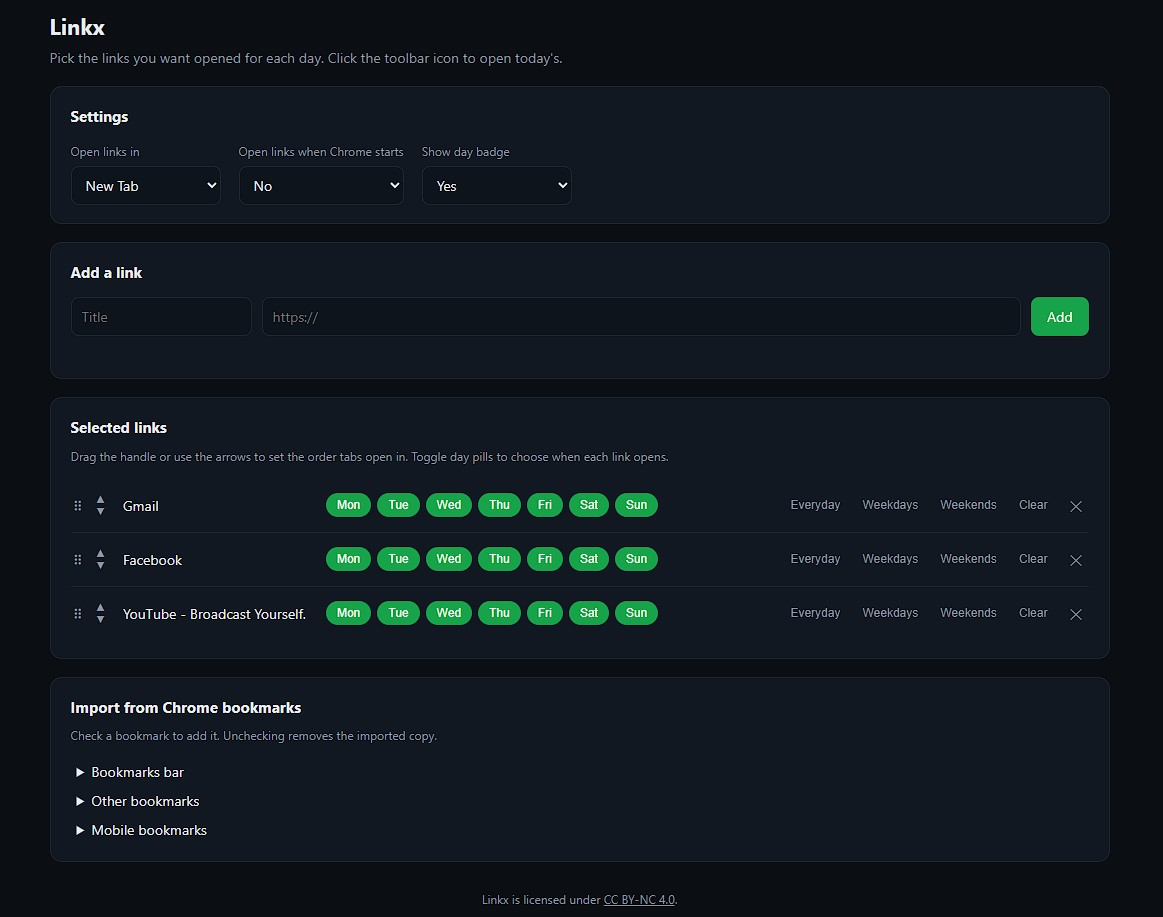
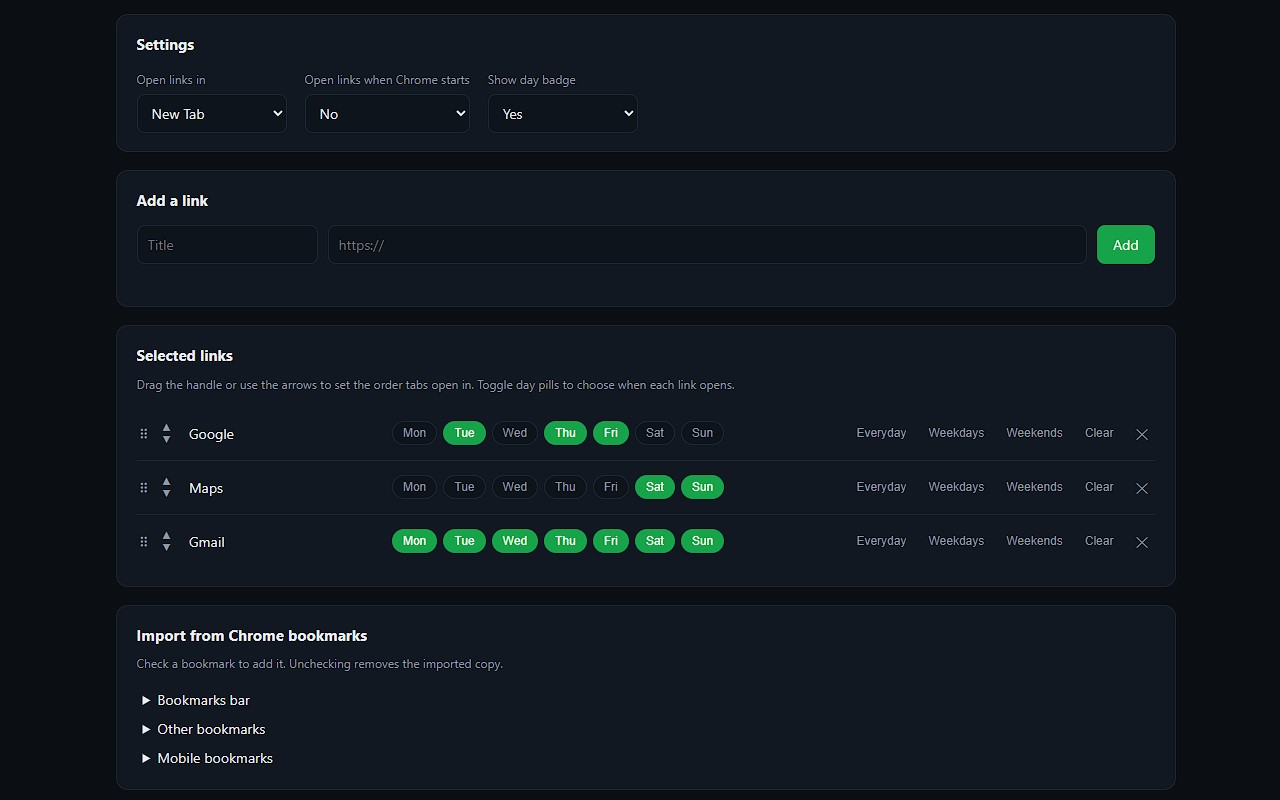
docs: update publishing guide and store screenshots

diff --git a/docs/PUBLISHING.md b/docs/PUBLISHING.md
@@ -24,7 +24,7 @@ powershell -ExecutionPolicy Bypass -File tools\pack.ps1
 
 This reads the version from `manifest.json` and writes `linkx-<version>.zip` (e.g. `linkx-1.0.3.zip`) containing exactly the shipping files, with `manifest.json`, `lib/`, and `icons/` at the root.
 
-> **Why a script and not `Compress-Archive`?** Windows PowerShell 5.1's `Compress-Archive` (and `ZipFile.CreateFromDirectory`) write ZIP entry names with **backslashes** (`lib\logic.js`), but the ZIP spec requires forward slashes. Chrome would then treat the file as literally named `lib\logic.js` at the root, breaking the `import './lib/storage.js'` calls after install. `tools/pack.ps1` builds entries with explicit forward slashes to avoid this.
+> **Why a script and not** `Compress-Archive`**?** Windows PowerShell 5.1's `Compress-Archive` (and `ZipFile.CreateFromDirectory`) write ZIP entry names with **backslashes** (`lib\logic.js`), but the ZIP spec requires forward slashes. Chrome would then treat the file as literally named `lib\logic.js` at the root, breaking the `import './lib/storage.js'` calls after install. `tools/pack.ps1` builds entries with explicit forward slashes to avoid this.
 
 > Every store update needs a **higher version** than the last published one. We already bump `version` in `manifest.json` + `package.json` on each change, so just re-run the script.
 
@@ -52,6 +52,7 @@ $z.Entries.FullName; $z.Dispose()
 **Name:** `Linkx`
 
 **Summary** (≤ 132 characters):
+
 ```
 Open the bookmarks you've chosen for today's weekday with a single click.
 ```
@@ -61,6 +62,7 @@ Open the bookmarks you've chosen for today's weekday with a single click.
 **Language:** English (or your preference)
 
 **Description:**
+
 ```
 Linkx opens the links you care about for the current day of the week — in one click.
 
@@ -81,6 +83,7 @@ Linkx is free and open source, licensed under CC BY-NC 4.0.
 ```
 
 **Graphic assets** (prepare these — **[you]**):
+
 - **Store icon:** 128×128 PNG. Linkx already ships `icons/icon128.png`; you can reuse it.
 - **Screenshots:** at least **1** (up to 5). **1280×800** or 640×400 PNG/JPEG. Load the extension, open its **Options** page with a few links configured and day pills toggled, and capture it. A second shot of the toolbar icon opening tabs is a nice-to-have.
 - **Small promo tile** (optional): 440×280 PNG.
@@ -90,28 +93,31 @@ Linkx is free and open source, licensed under CC BY-NC 4.0.
 ## 5. Privacy practices tab
 
 **Single purpose** (paste):
+
 ```
 Linkx opens the bookmarks the user has chosen for the current weekday when they click the toolbar icon.
 ```
 
 **Permission justifications** (one per requested permission):
 
-| Permission | Justification |
-|---|---|
+| Permission  | Justification                                                                                                                                                                                                       |
+| ----------- | ------------------------------------------------------------------------------------------------------------------------------------------------------------------------------------------------------------------- |
 | `bookmarks` | Read the user's existing Chrome bookmarks to display them on the options page so the user can select which ones to add as daily links. Bookmarks are read only for display; they are never modified or transmitted. |
-| `storage` | Save the user's link list and settings so they persist and sync across the user's own signed-in Chrome profiles. |
-| `tabs` | Open the user's selected links in new tabs or a new window when they click the toolbar icon or on startup. |
-| `alarms` | Refresh the toolbar day badge periodically so it always shows the correct current weekday. |
+| `storage`   | Save the user's link list and settings so they persist and sync across the user's own signed-in Chrome profiles.                                                                                                    |
+| `tabs`      | Open the user's selected links in new tabs or a new window when they click the toolbar icon or on startup.                                                                                                          |
+| `alarms`    | Refresh the toolbar day badge periodically so it always shows the correct current weekday.                                                                                                                          |
 
-> **Reviewer note on `tabs`:** creating tabs (`chrome.tabs.create`) does **not** strictly require the `tabs` permission — that permission only grants access to sensitive tab properties (URL, title) which Linkx doesn't read. If a reviewer flags `tabs` as unnecessary, you can safely remove `"tabs"` from `manifest.json` and resubmit; the open-links feature will still work. It's currently declared for clarity.
+> **Reviewer note on** `tabs`**:** creating tabs (`chrome.tabs.create`) does **not** strictly require the `tabs` permission — that permission only grants access to sensitive tab properties (URL, title) which Linkx doesn't read. If a reviewer flags `tabs` as unnecessary, you can safely remove `"tabs"` from `manifest.json` and resubmit; the open-links feature will still work. It's currently declared for clarity.
 
 **Data usage** — declare and certify:
+
 - Linkx does **not** collect or use user data (no data leaves the device).
 - ✅ I do not sell or transfer user data to third parties (outside approved use cases).
 - ✅ I do not use or transfer user data for purposes unrelated to the item's single purpose.
 - ✅ I do not use or transfer user data to determine creditworthiness or for lending.
 
 **Privacy policy URL** (required because Linkx uses `bookmarks`/`tabs`): host `PRIVACY.md` and paste its URL. Easiest options:
+
 - **GitHub raw:** `https://raw.githubusercontent.com/masina1/Linkx/master/PRIVACY.md`
 - Or enable **GitHub Pages** on the repo and link the rendered page.
 
@@ -138,9 +144,9 @@ Click **Submit for review**. Review typically takes anywhere from a few hours to
 
 ## Pre-submit checklist
 
-- [ ] `cd linkx && node --test` passes
-- [ ] Version in `manifest.json` is higher than the last published version
-- [ ] ZIP has `manifest.json` at its root (no extra wrapping folder)
-- [ ] At least one 1280×800 screenshot prepared
-- [ ] `PRIVACY.md` is hosted and the URL works
-- [ ] Permission justifications filled in
+- [x] `cd linkx && node --test` passes
+- [x] Version in `manifest.json` is higher than the last published version
+- [x] ZIP has `manifest.json` at its root (no extra wrapping folder)
+- [x] At least one 1280×800 screenshot prepared
+- [x] `PRIVACY.md` is hosted and the URL works
+- [x] Permission justifications filled in
